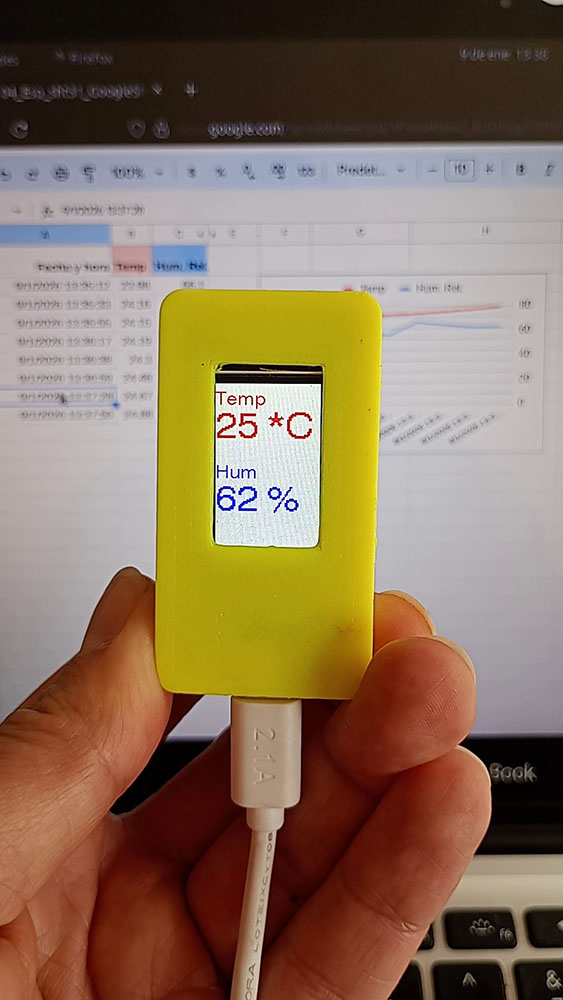
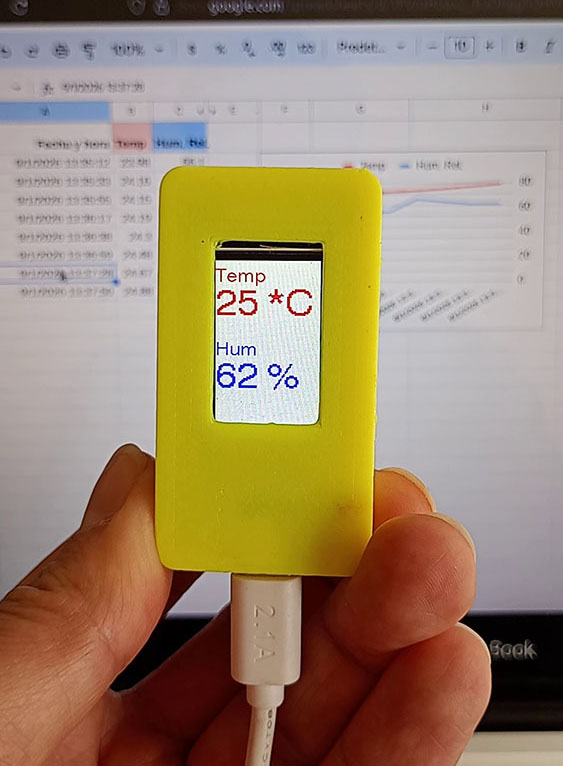
Ajustes para nov 2026

diff --git a/README.md b/README.md
@@ -10,9 +10,9 @@ La motivacion para hacer nuestro propio datalogger para conservación puede ser 
 
 El objetivo técnico de este conjunto de proyectos es invitar aotras personas a experimentar, comparar y consolidar distintas arquitecturas de adquisición y envío de datos ambientales desde microcontroladores. En lugar de limitarse a una única placa o servicio, el repositorio muestra variantes que permiten adaptar la solución a diferentes necesidades: desde registros locales en tarjeta SD, hasta publicación en plataformas web o en aplicaciones móviles. Esto convierte al repositorio en una base útil para prototipado, documentación técnica y reutilización de código en futuros desarrollos de monitoreo ambiental.
 
-## PLACAS
+## MICROCONTROLADORES
 
-La categoría **PLACAS** agrupa proyectos organizados según el tipo de tarjeta o microcontrolador utilizado. Aquí se encuentran implementaciones pensadas para Arduino UNO, MEGA, ESP8266, ESP32, D1 mini, NodeMCU y otras variantes, así como combinaciones de placas con módulos adicionales como pantallas LCD, eInk, Ethernet Shield o circuitos para medición de batería. Esta organización permite adaptar la lógica del datalogger al hardware disponible y facilita comparar cómo cambia el comportamiento del sistema entre distintas arquitecturas. También es una categoría especialmente útil para estudiar limitaciones y ventajas de cada plataforma, como consumo energético, capacidad de memoria, conectividad integrada y compatibilidad con librerías.
+La categoría **MICROCONTROLADORES** agrupa proyectos organizados según el tipo de tarjeta o microcontrolador utilizado. Aquí se encuentran implementaciones pensadas para Arduino UNO, MEGA, ESP8266, ESP32, D1 mini, NodeMCU y otras variantes, así como combinaciones de placas con módulos adicionales como pantallas LCD, eInk, Ethernet Shield o circuitos para medición de batería. Esta organización permite adaptar la lógica del datalogger al hardware disponible y facilita comparar cómo cambia el comportamiento del sistema entre distintas arquitecturas. También es una categoría especialmente útil para estudiar limitaciones y ventajas de cada plataforma, como consumo energético, capacidad de memoria, conectividad integrada y compatibilidad con librerías.
 
 Desde el punto de vista tecnológico, esta carpeta refleja una gran diversidad de soluciones: algunos sketches priorizan la conectividad WiFi, otros usan Ethernet, otros exploran modos de bajo consumo como deep sleep, y varios incorporan mecanismos de depuración o visualización local. En conjunto, esta categoría representa el núcleo de experimentación del repositorio, porque reúne la adaptación del mismo problema —capturar y mostrar datos— a múltiples placas y configuraciones.
 
